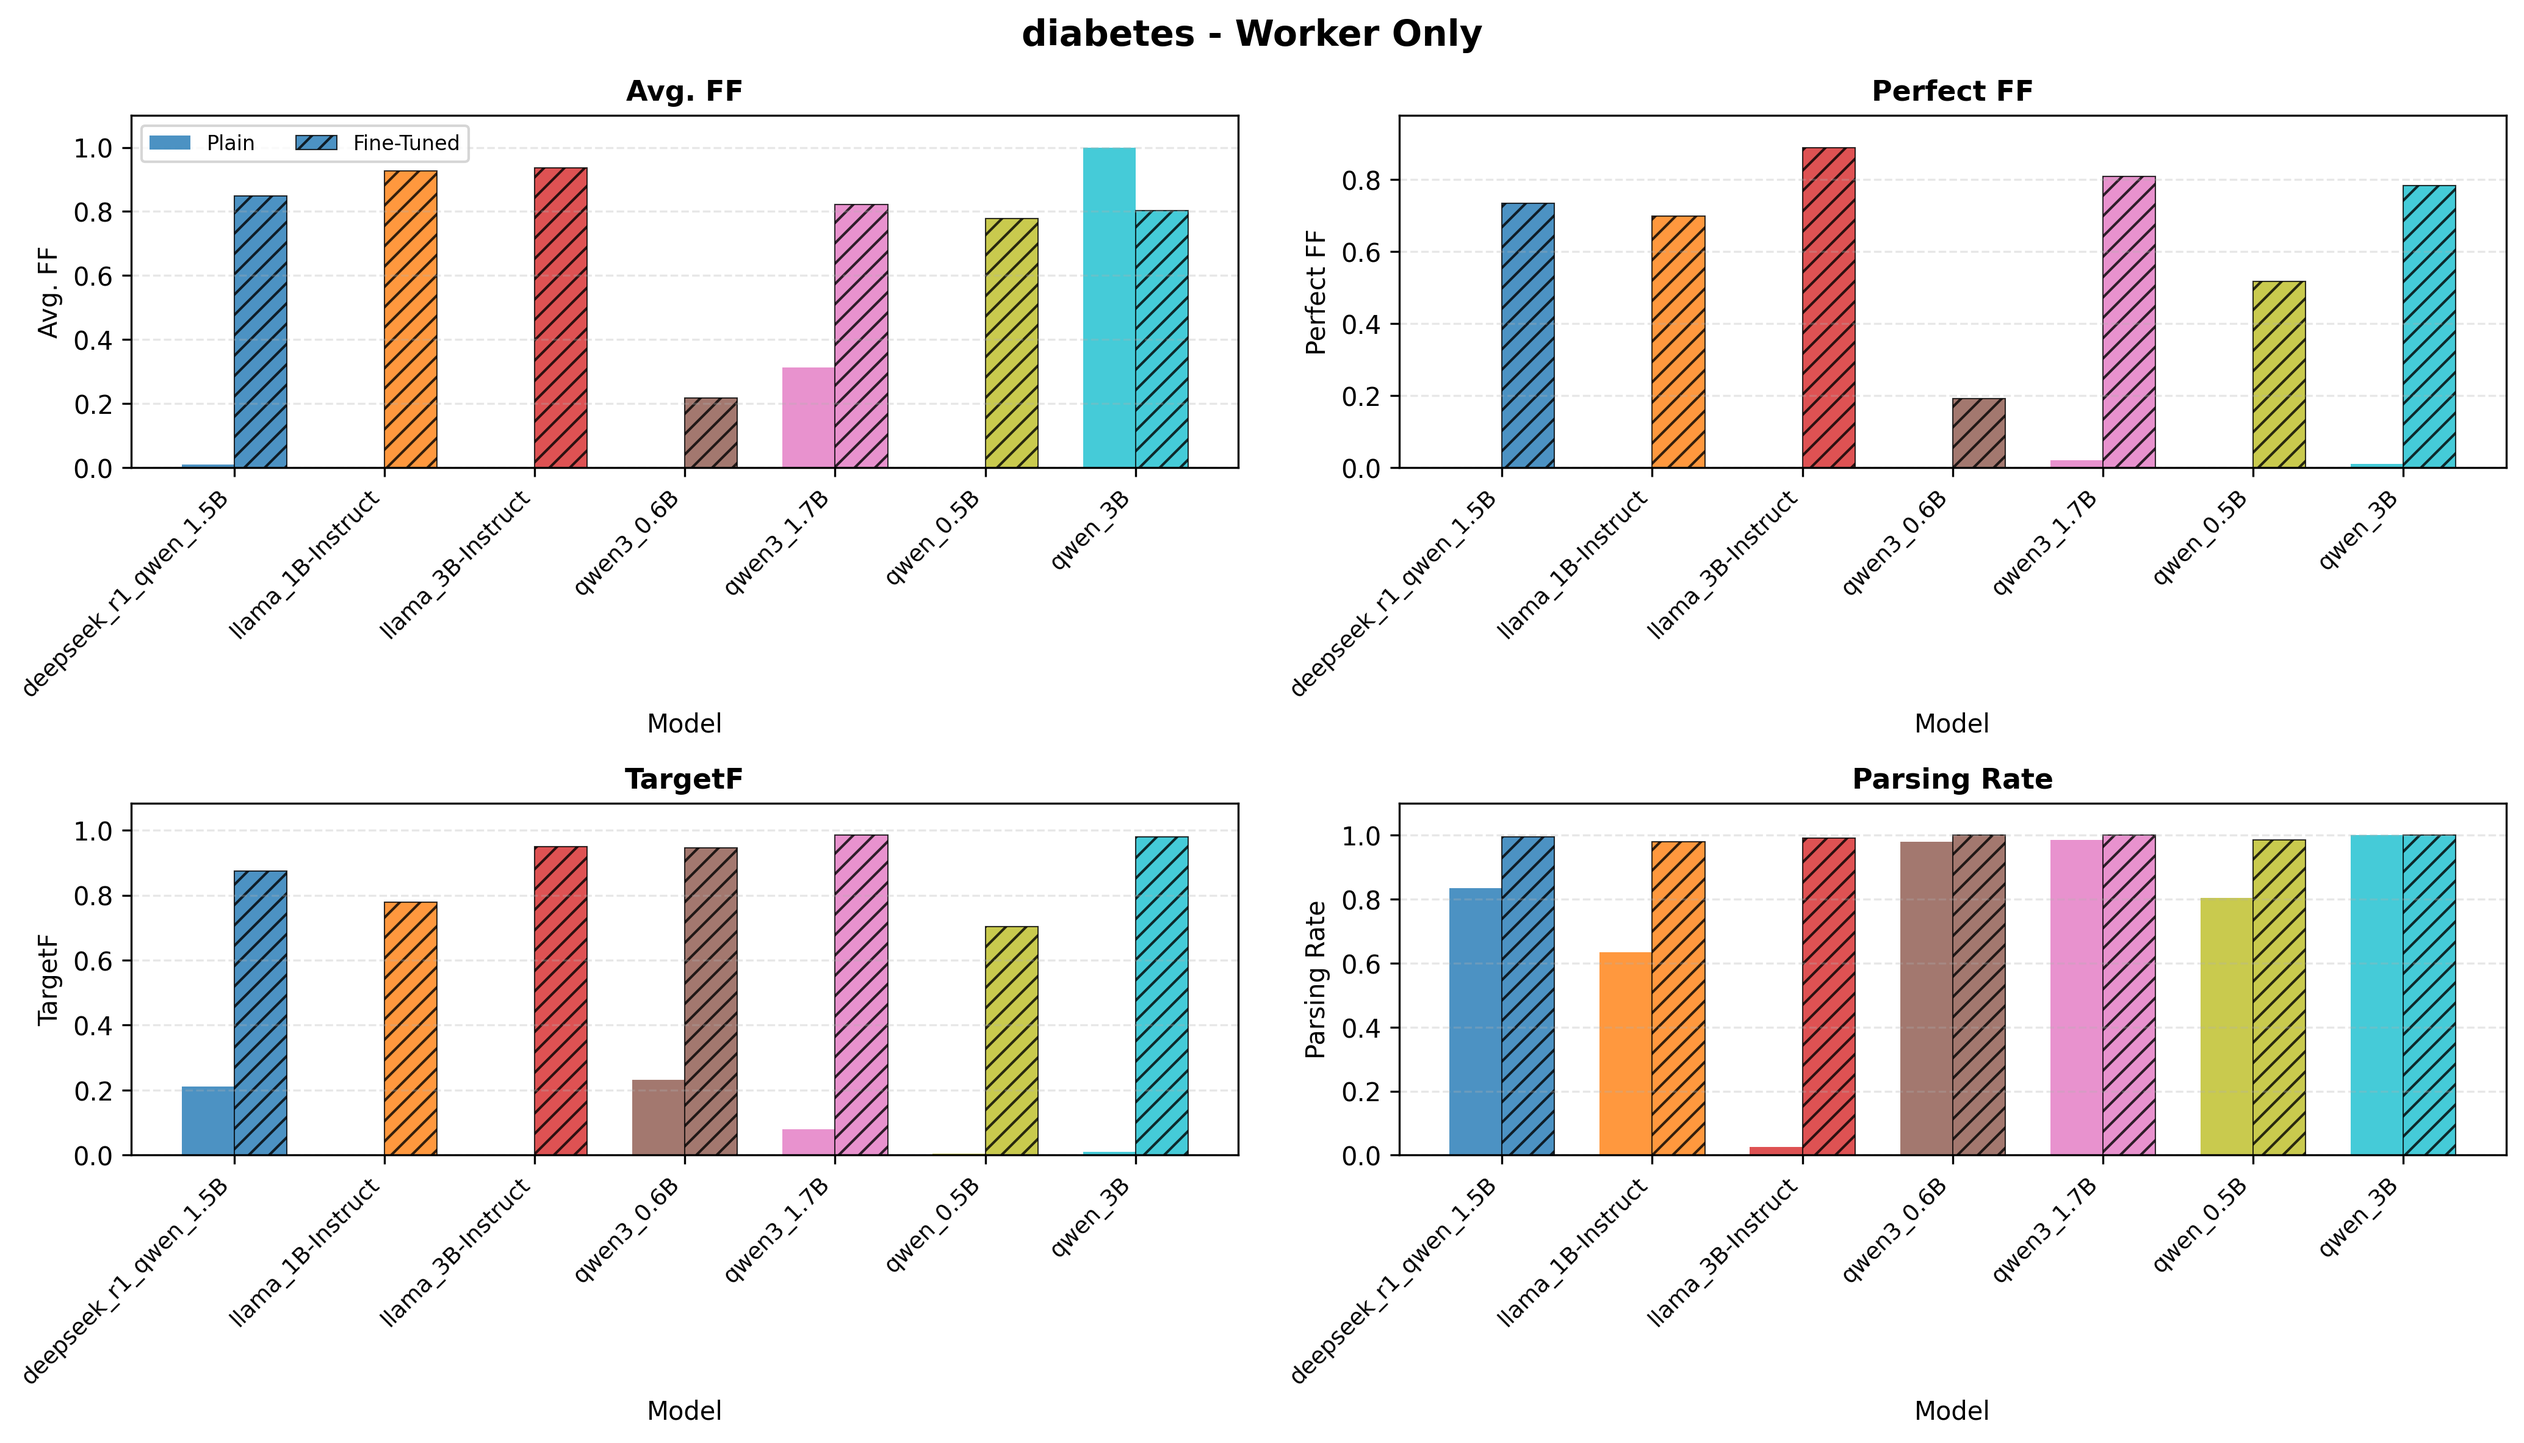
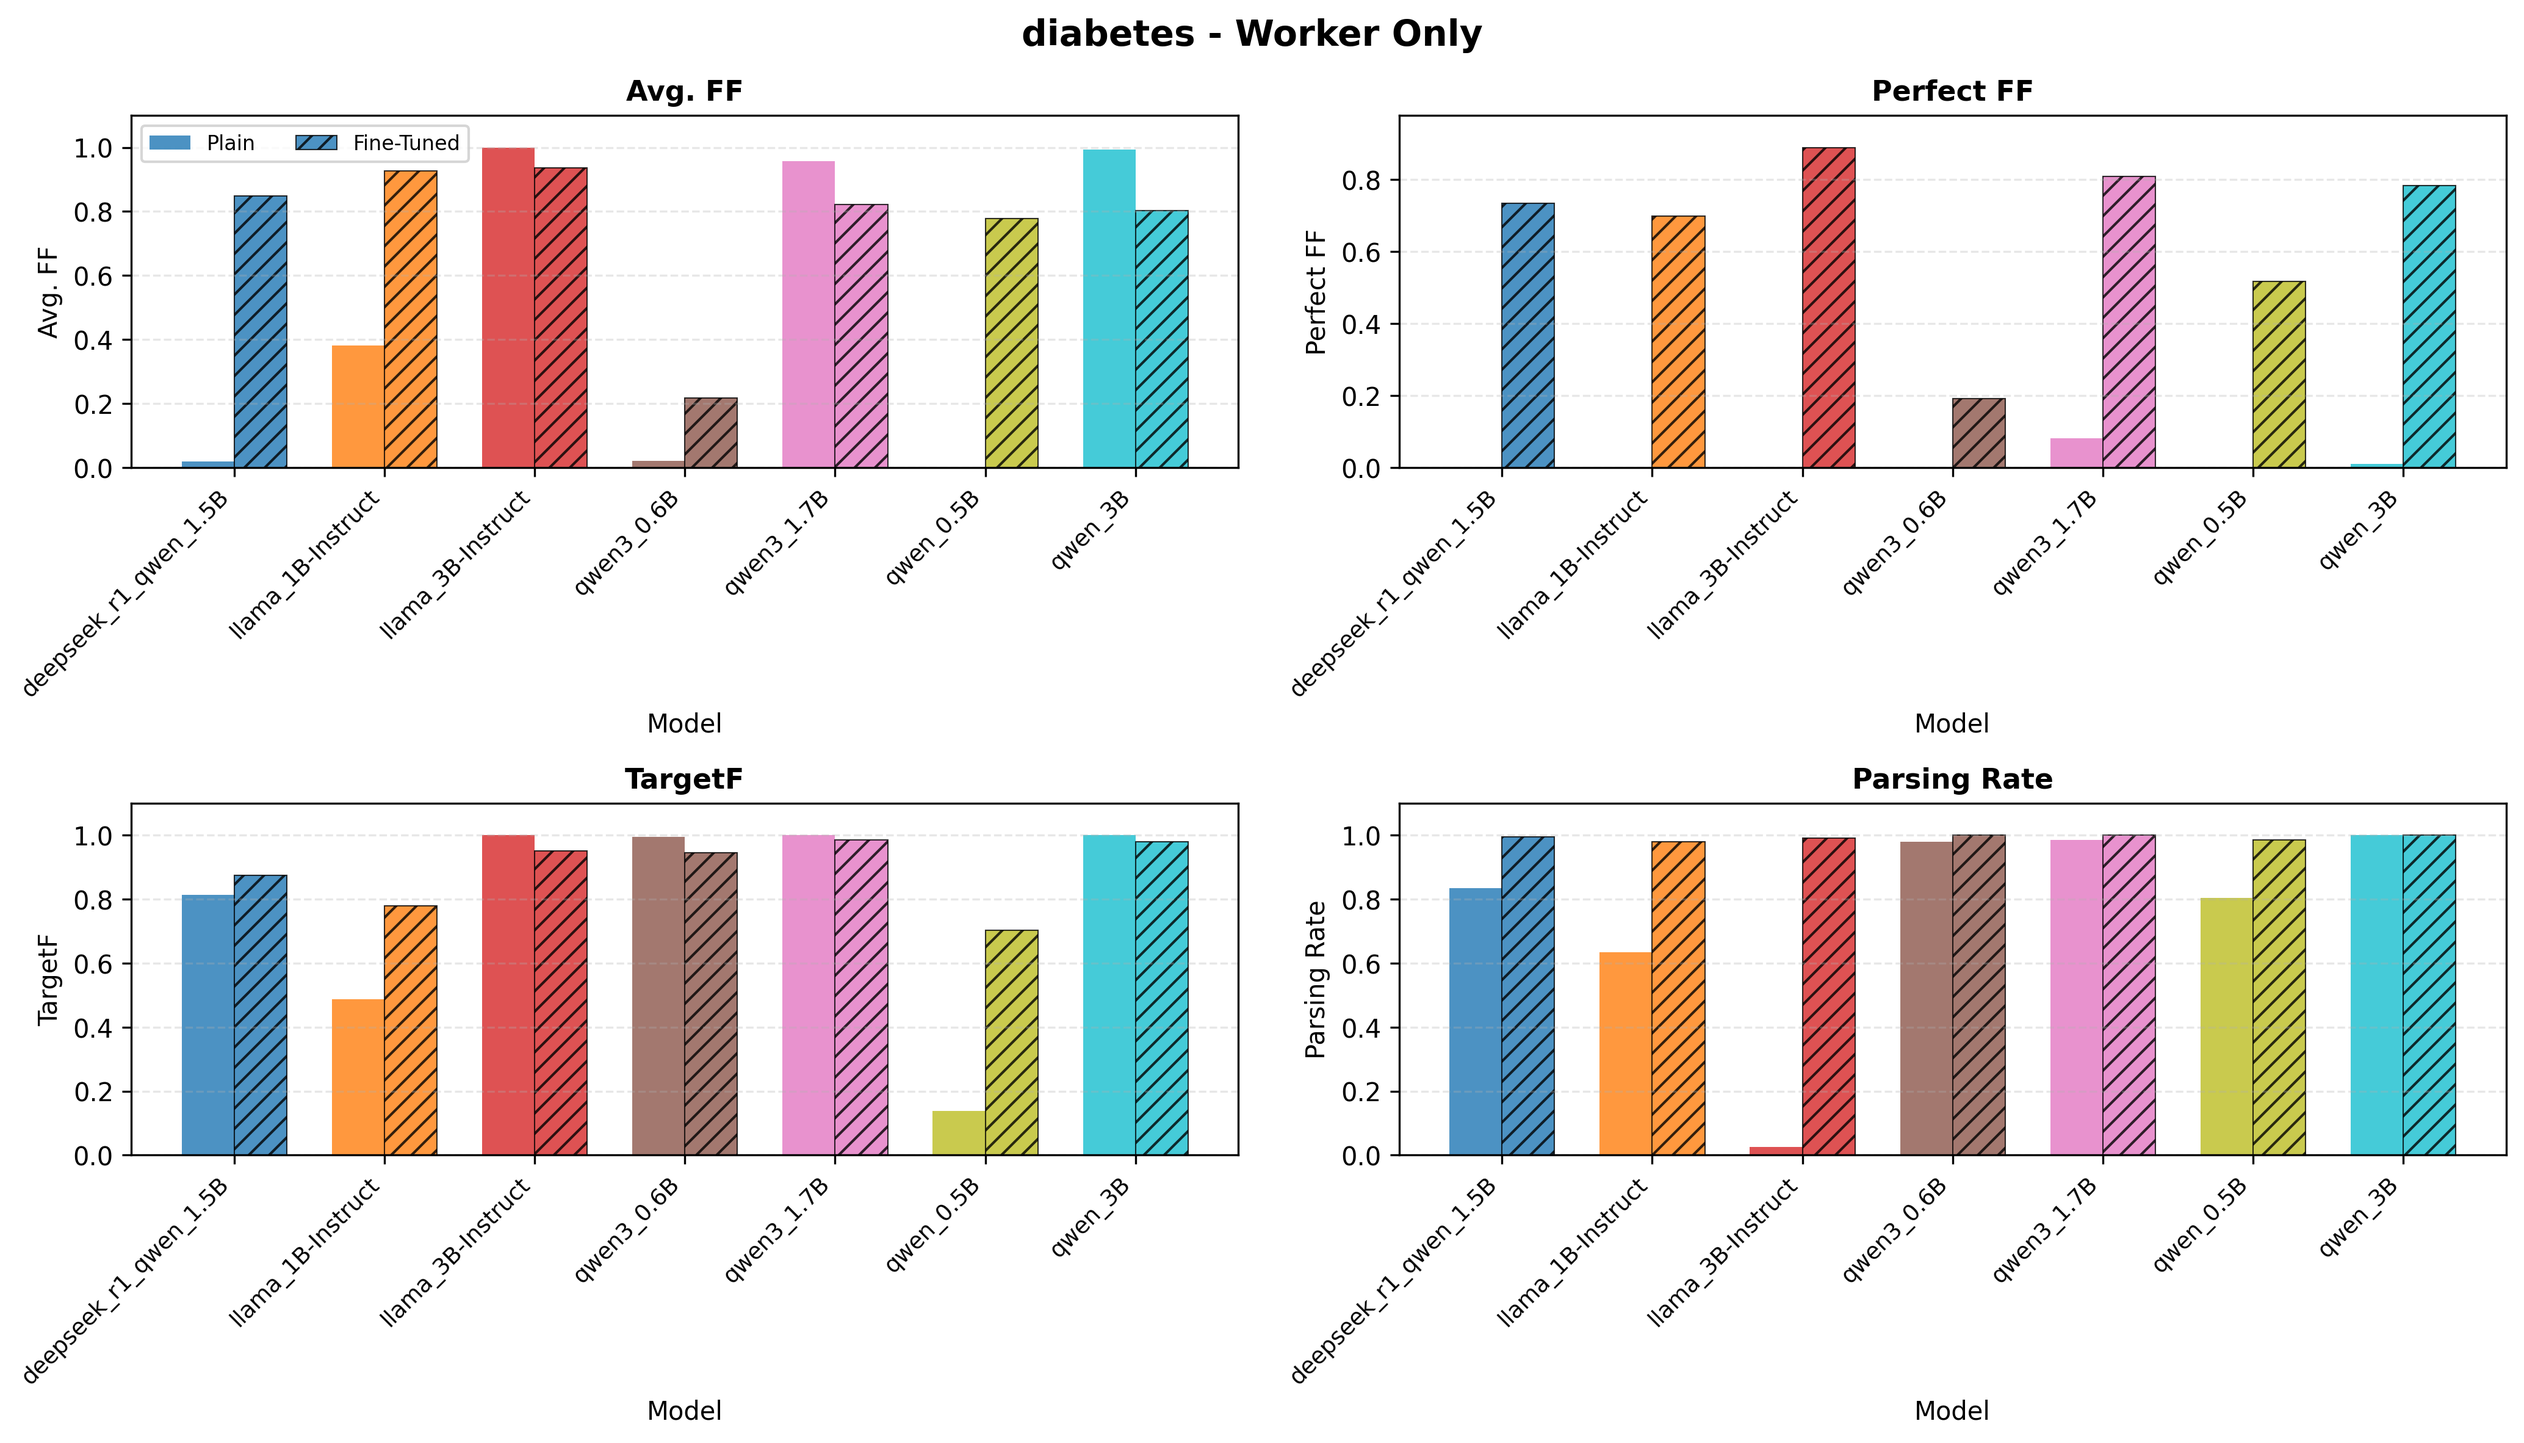
ADD: correction of titanic/diabetes results

diff --git a/results/draft_generator/global_results/diabetes_draft_generator.tex b/results/draft_generator/global_results/diabetes_draft_generator.tex
@@ -3,13 +3,14 @@
     \begin{tabular}{l|p{2.5cm}|p{2.5cm}|p{2.5cm}|p{2.5cm}}
         \textbf{Model} & \textbf{Avg. FF} \newline (Plain / FT) & \textbf{PFF} \newline (Plain / FT) & \textbf{TF} \newline (Plain / FT) & \textbf{JPR} \newline (Plain / FT) \\ 
         \midrule 
-deepseek_r1_qwen_1.5B & 0.0102 / 0.8477 & 0.0 / 0.7337 & 0.2111 / 0.8744 & 0.8342 / 0.995 \\
-llama_1B-Instruct & 0.0 / 0.9258 & 0.0 / 0.6985 & 0.0 / 0.7789 & 0.6332 / 0.9799 \\
-llama_3B-Instruct & 0.0 / 0.9365 & 0.0 / 0.8894 & 0.0 / 0.9497 & 0.0251 / 0.9899 \\
-qwen3_0.6B & 0.0 / 0.2181 & 0.0 / 0.191 & 0.2312 / 0.9447 & 0.9799 / 1.0 \\
-qwen3_1.7B & 0.3125 / 0.8214 & 0.0201 / 0.809 & 0.0804 / 0.9849 & 0.9849 / 1.0 \\
-qwen_0.5B & 0.0 / 0.7786 & 0.0 / 0.5176 & 0.005 / 0.7035 & 0.804 / 0.9849 \\
-qwen_3B & 1.0 / 0.8026 & 0.0101 / 0.7839 & 0.0101 / 0.9799 & 1.0 / 1.0 \\
+deepseek_r1_qwen_1.5B & 0.0187 / 0.8477 & 0.0 / 0.7337 & 0.8125 / 0.8744 & 0.8342 / 0.995 \\
+llama_1B-Instruct & 0.3821 / 0.9258 & 0.0 / 0.6985 & 0.4878 / 0.7789 & 0.6332 / 0.9799 \\
+llama_3B-Instruct & 1.0 / 0.9365 & 0.0 / 0.8894 & 1.0 / 0.9497 & 0.0251 / 0.9899 \\
+qwen3_0.6B & 0.0205 / 0.2181 & 0.0 / 0.191 & 0.9949 / 0.9447 & 0.9799 / 1.0 \\
+qwen3_1.7B & 0.9564 / 0.8214 & 0.0821 / 0.809 & 1.0 / 0.9849 & 0.9849 / 1.0 \\
+qwen_0.5B & 0.0 / 0.7786 & 0.0 / 0.5176 & 0.1375 / 0.7035 & 0.804 / 0.9849 \\
+qwen_3B & 0.9925 / 0.8026 & 0.0101 / 0.7839 & 1.0 / 0.9799 & 1.0 / 1.0 \\
+qwen3_4B & 0.9866 / 0.995 & 0.2032 / 0.9899 & 0.984 / 1.0 & 0.9497 / 1.0 \\
     \end{tabular} 
     \caption{Comparison of results for worker only on diabetes dataset.}
     \label{tab:results-diabetes-draft}

diff --git a/results/draft_generator/global_results/titanic_draft_generator.tex b/results/draft_generator/global_results/titanic_draft_generator.tex
@@ -3,13 +3,14 @@
     \begin{tabular}{l|p{2.5cm}|p{2.5cm}|p{2.5cm}|p{2.5cm}}
         \textbf{Model} & \textbf{Avg. FF} \newline (Plain / FT) & \textbf{PFF} \newline (Plain / FT) & \textbf{TF} \newline (Plain / FT) & \textbf{JPR} \newline (Plain / FT) \\ 
         \midrule 
-deepseek_r1_qwen_1.5B & 0.3438 / 0.9659 & 0.0251 / 0.8492 & 0.0302 / 0.8844 & 0.7136 / 0.995 \\
-llama_1B-Instruct & 0.0 / 0.9471 & 0.0 / 0.3819 & 0.0 / 0.4271 & 0.8191 / 0.7588 \\
-llama_3B-Instruct & 0.0 / 0.9792 & 0.0 / 0.9397 & 0.0 / 0.9648 & 0.0452 / 0.995 \\
-qwen3_0.6B & 0.08 / 0.7432 & 0.005 / 0.6231 & 0.0704 / 0.9196 & 0.9799 / 1.0 \\
-qwen3_1.7B & 0.3333 / 0.9 & 0.0553 / 0.8442 & 0.4975 / 0.9548 & 1.0 / 1.0 \\
-qwen_0.5B & 0.0 / 0.8128 & 0.0 / 0.7035 & 0.0 / 0.9397 & 0.9749 / 0.9849 \\
-qwen_3B & 0.0 / 0.9541 & 0.0 / 0.8744 & 0.0 / 0.9296 & 1.0 / 1.0 \\
+deepseek_r1_qwen_1.5B & 0.1844 / 0.9659 & 0.0355 / 0.8492 & 0.461 / 0.8844 & 0.7136 / 0.995 \\
+llama_1B-Instruct & 0.0525 / 0.9471 & 0.0 / 0.3819 & 0.1235 / 0.4271 & 0.8191 / 0.7588 \\
+llama_3B-Instruct & 1.0 / 0.9792 & 0.0 / 0.9397 & 1.0 / 0.9648 & 0.0452 / 0.995 \\
+qwen3_0.6B & 0.0876 / 0.7432 & 0.0155 / 0.6231 & 0.5258 / 0.9196 & 0.9799 / 1.0 \\
+qwen3_1.7B & 0.9543 / 0.9 & 0.5025 / 0.8442 & 1.0 / 0.9548 & 1.0 / 1.0 \\
+qwen_0.5B & 0.1881 / 0.8128 & 0.0 / 0.7035 & 0.0773 / 0.9397 & 0.9749 / 0.9849 \\
+qwen_3B & 1.0 / 0.9541 & 0.0 / 0.8744 & 1.0 / 0.9296 & 1.0 / 1.0 \\
+qwen3_4B & 1.0 / 0.9949 & 0.5402 / 0.9797 & 1.0 / 1.0 & 0.8945 / 1.0 \\
     \end{tabular} 
     \caption{Comparison of results for worker only on titanic dataset.}
     \label{tab:results-titanic-draft}

diff --git a/results/draft_generator/global_results/titanic_draft_generator_fra.tex b/results/draft_generator/global_results/titanic_draft_generator_fra.tex
@@ -4,11 +4,11 @@
         \textbf{Model} & \textbf{FRA SHAP 0.05} \\ (Plain / FT) & \textbf{FRA SHAP 0.1} \\ (Plain / FT) & \textbf{FRA SHAP 0.2} \\ (Plain / FT) & \textbf{FRA LIME 0.05} \\ (Plain / FT) & \textbf{FRA LIME 0.1} \\ (Plain / FT) & \textbf{FRA LIME 0.2} \\ (Plain / FT) \\ 
 \textbf{FRA LIME 0.1} \\ (Plain / FT) \\ 
         \midrule 
-deepseek_r1_qwen_1.5B & 1.0 / 0.5208 & 1.0 / 0.5208 & 0.5208 & 1.0 / 0.9381 & 1.0 / 0.9381 & 0.9381 \\
+deepseek_r1_qwen_1.5B & 1.0 / 0.5208 & 1.0 / 0.5208 & 1.0 / 0.5208 & 1.0 / 0.9381 & 1.0 / 0.9381 & 1.0 / 0.9381 \\
 llama_1B-Instruct & 0.4737 & 0.4737 & 0.4737 & 0.9474 & 0.9474 & 0.9474 \\
 llama_3B-Instruct & 0.4896 & 0.4896 & 0.4896 & 0.9072 & 0.9072 & 0.9175 \\
 qwen3_0.6B & 0.4933 & 0.4933 & 0.4933 & 0.9474 & 0.9605 & 0.9605 \\
-qwen3_1.7B & 1.0 / 0.5263 & 1.0 / 0.5263 & 0.5263 & 1.0 / 0.9579 & 1.0 / 0.9579 & 0.9579 \\
+qwen3_1.7B & 0.6 / 0.5263 & 0.6 / 0.5263 & 0.6 / 0.5263 & 0.95 / 0.9579 & 0.95 / 0.9579 & 0.95 / 0.9579 \\
 qwen_0.5B & 0.5 & 0.5 & 0.5 & 0.9872 & 0.9872 & 0.9744 \\
 qwen_3B & 0.4737 & 0.4737 & 0.4737 & 0.9375 & 0.9375 & 0.9375 \\
     \end{tabular} 
